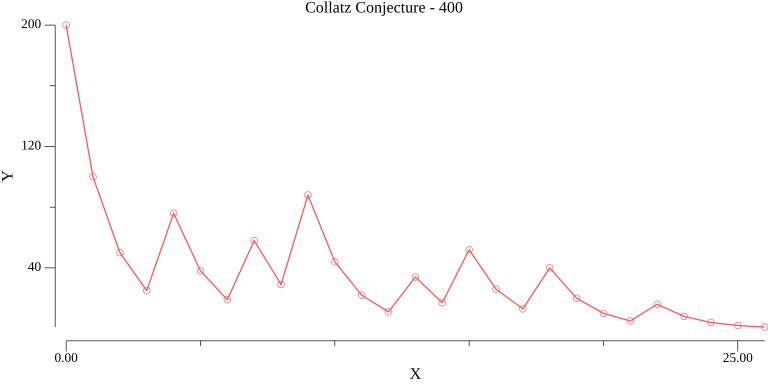
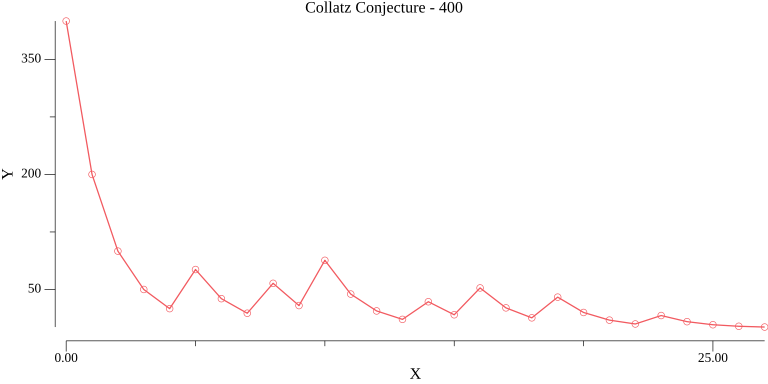
Fix for having initial value in graph
-additional code cleanup
-new examples

diff --git a/collatzConjecture.go b/collatzConjecture.go
@@ -16,8 +16,6 @@ var PROJECTNAME = "collatzConjecture"
 func main() {
 	fmt.Printf("%s %s ", PROJECTNAME, VERSION)
 
-	values := []int{}
-
 	flag.Parse()
 	numberCLIArg := flag.Arg(0)
 	var value int
@@ -29,6 +27,14 @@ func main() {
 		fmt.Println(err)
 	}
 	var newValue int = value
+	values := buildArray(newValue)
+	printGraph(value, values, numberCLIArg)
+
+}
+
+func buildArray(newValue int) []int {
+	values := []int{}
+	values = append(values, newValue)
 	for {
 		if newValue != 1 {
 			if newValue%2 == 0 {
@@ -42,8 +48,7 @@ func main() {
 			break
 		}
 	}
-	printGraph(value, values, numberCLIArg)
-
+	return values
 }
 
 func isOdd(number int) int {
